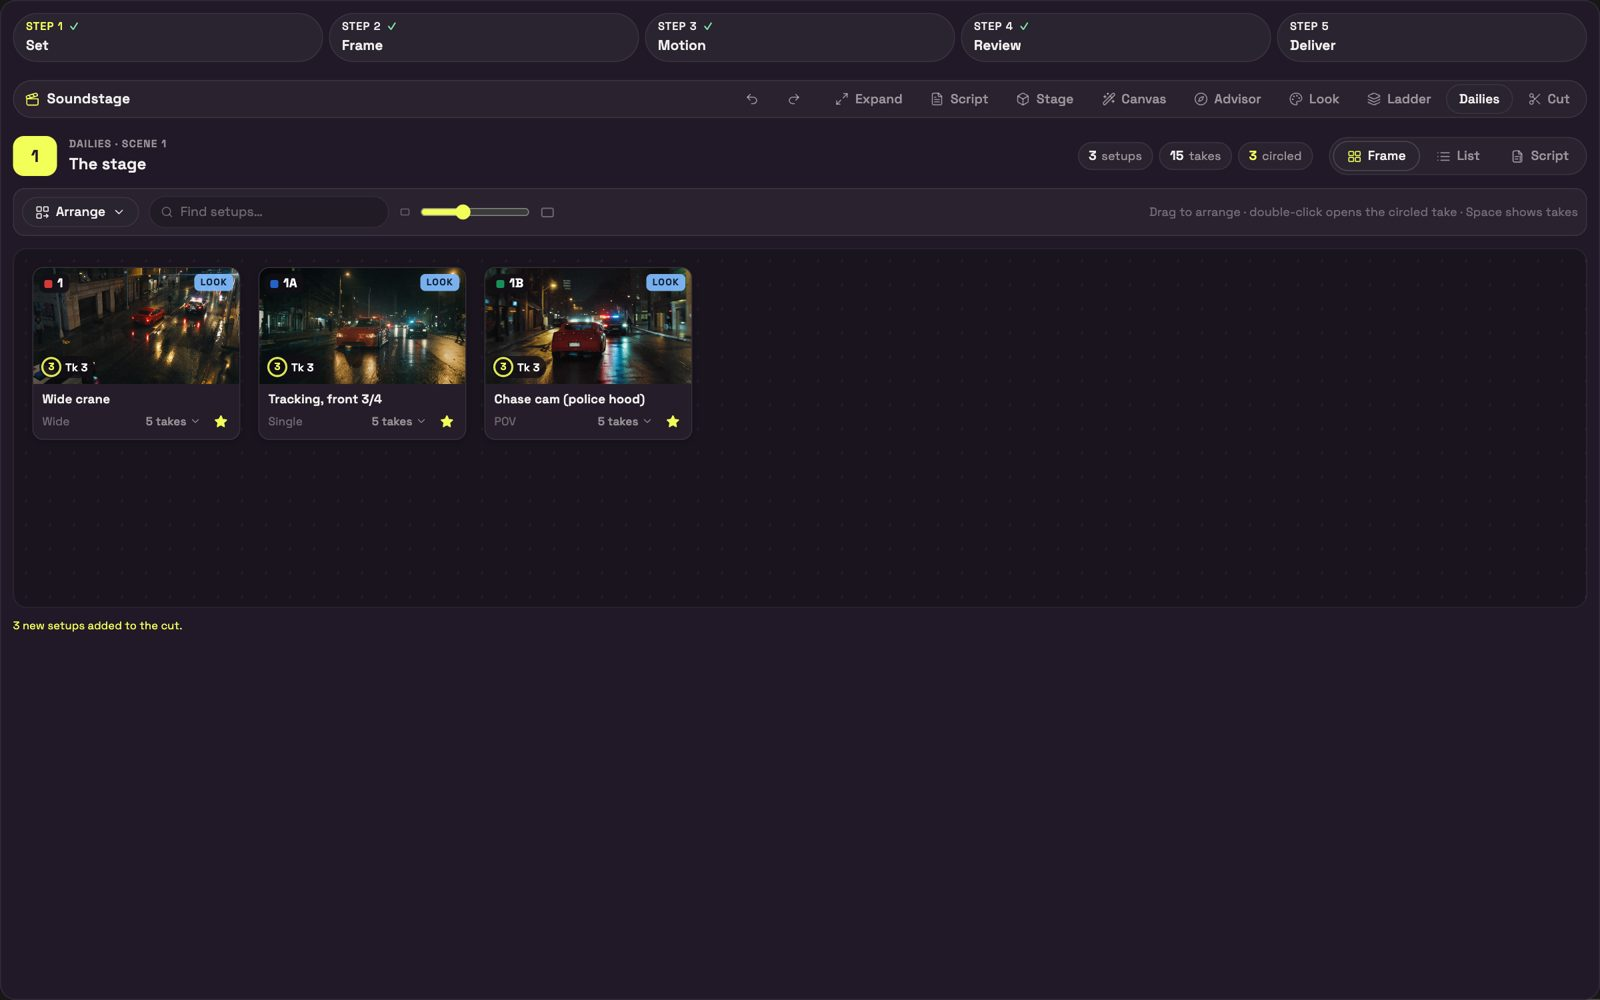
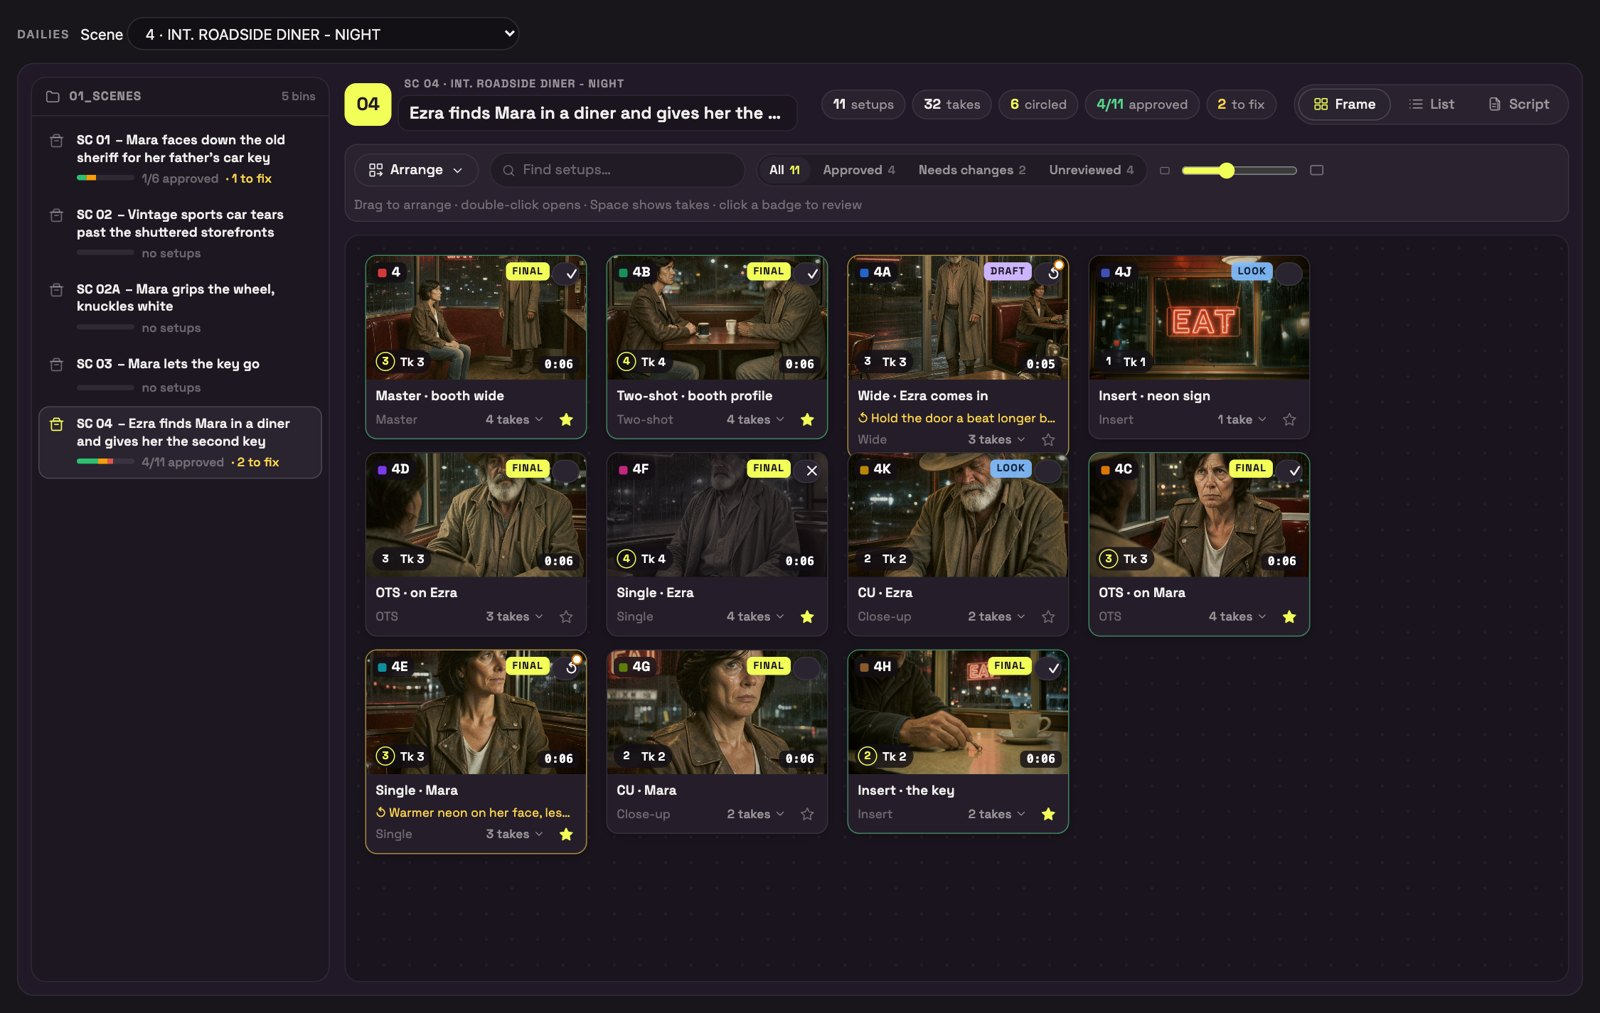
Dailies + lined script screenshots: real FLUX 3 Klein frames (same cast in every setup, film-graded) instead of drawn placeholder thumbnails; preview.html ?real=1

diff --git a/web/dailies/preview.html b/web/dailies/preview.html
@@ -54,7 +54,11 @@
 
   applyTheme();
   const q = new URLSearchParams(location.search);
-  const { script, shots, renders } = demoDailies();
+  // ?real=1: thumbnails are rendered frames on the server (FLUX 3 Klein, one per setup), not drawn placeholders.
+  const rv = (f) => `/api/view?filename=${f}&subfolder=soundstage/dailies_real&type=output`;
+  const real = q.has("real") ? { sc_4: Array.from({ length: 11 }, (_, i) => rv(`diner_${String(i).padStart(2, "0")}_00003_.png`)),
+    sc_1: Array.from({ length: 6 }, (_, i) => rv(`desert_${String(i).padStart(2, "0")}_00003_.png`)) } : null;
+  const { script, shots, renders } = demoDailies({ real });
   let sceneId = q.get("scene") || "sc_4";
   const layouts = {};
   try { Object.assign(layouts, q.has("fresh") ? {} : JSON.parse(localStorage.getItem("ss_dailies_preview") || "{}")); } catch { /* storage blocked */ }
